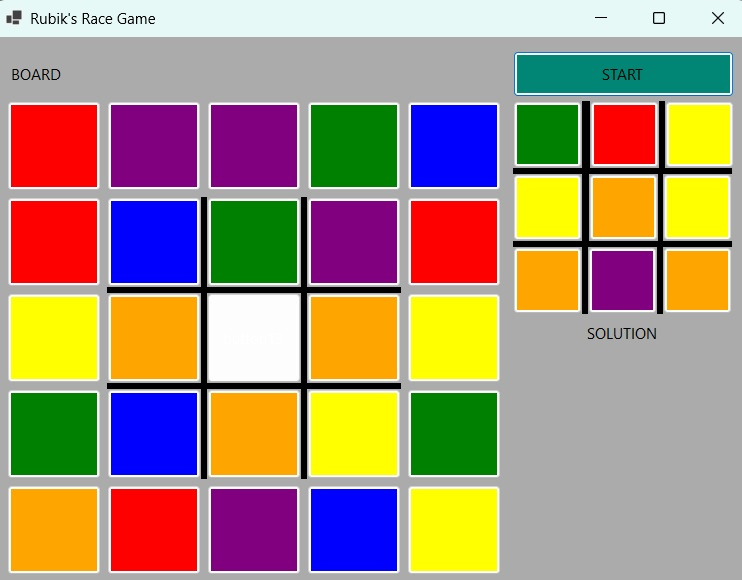
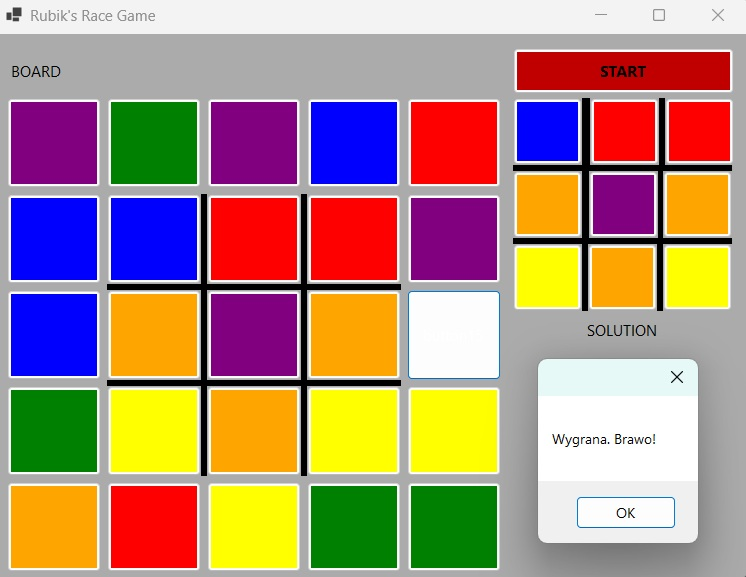
.

diff --git a/RubiksRaceGame/RubiksRaceGame/Game.Designer.cs b/RubiksRaceGame/RubiksRaceGame/Game.Designer.cs
@@ -95,7 +95,7 @@
             // 
             // button37
             // 
-            button37.BackColor = SystemColors.Desktop;
+            button37.BackColor = Color.FromArgb(192, 0, 0);
             button37.Font = new Font("Segoe UI", 9F, FontStyle.Bold);
             button37.Location = new Point(518, 14);
             button37.Name = "button37";

diff --git a/RubiksRaceGame/RubiksRaceGame/Game.cs b/RubiksRaceGame/RubiksRaceGame/Game.cs
@@ -605,6 +605,7 @@ namespace RubiksRaceGame
         private void Form1_Load(object sender, EventArgs e)
         {
             this.Text = " Rubik's Race Game";
+
         }
     }
 }
